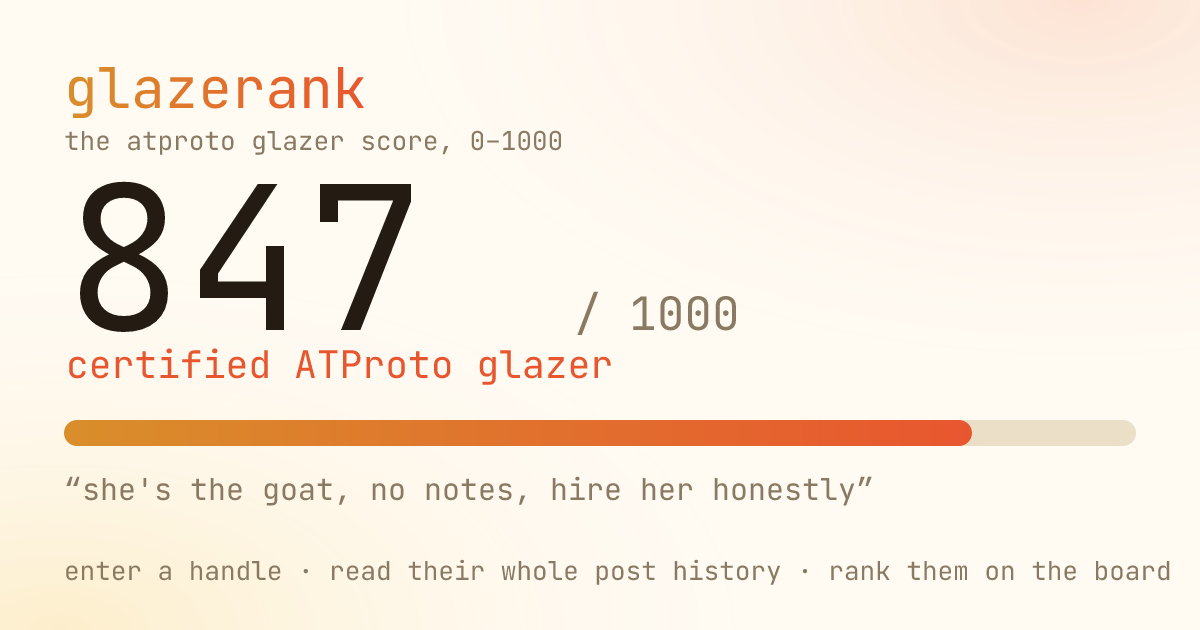
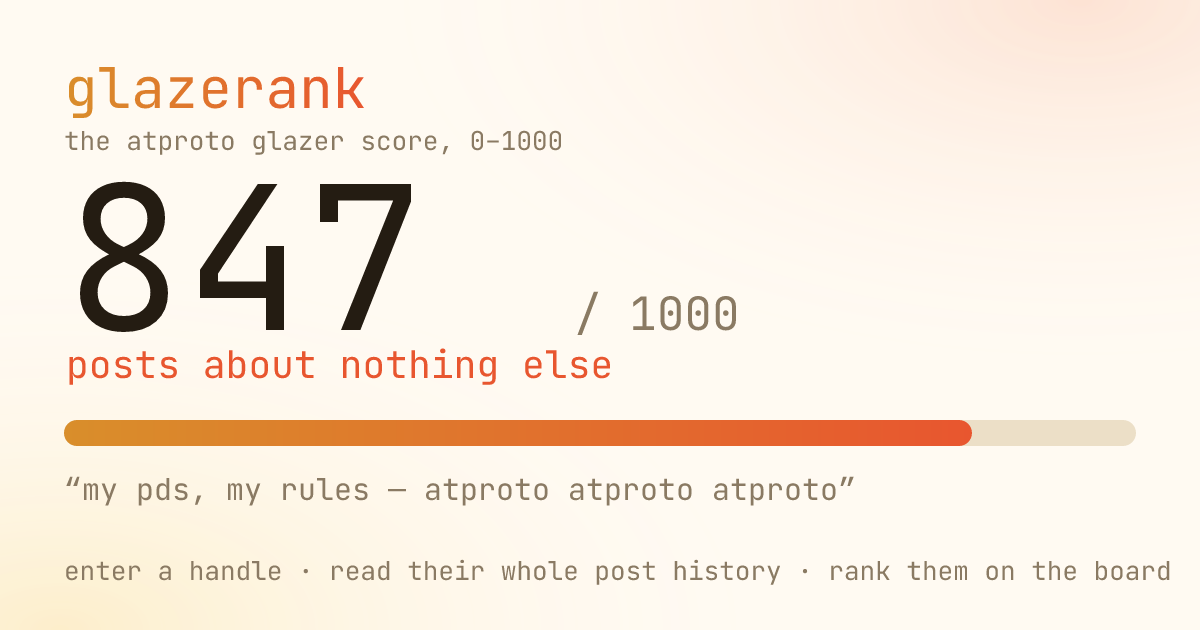
buildthis: glazerank (@mfzx.net)

Changed region(s): [[0.0617, 0.5429, 0.5242, 0.6032], [0.37, 0.754, 0.74, 0.8143], [0.0617, 0.754, 0.3392, 0.8143]]

diff --git a/sites/glazerank/src/index.ts b/sites/glazerank/src/index.ts
@@ -4,7 +4,13 @@
 // bio joking she's "ATProto's 19th biggest glazer") for a site with an
 // account input that computes an "atproto glazer" score 0-1000 off that
 // account's own posts, going back as far as the site can fetch, plus a
-// leaderboard.
+// leaderboard. Originally scored hype-superlative keyword hits (goat,
+// iconic, no notes...) gated on the post being atproto-related; @mfzx.net
+// came back and asked for a better indicator — "how much does this account
+// talk about atproto/bluesky/other atmosphere apps" — so the score is now
+// pure topic-mention density, see TOPIC_TERMS below. Same ask reset the
+// leaderboard (old entries were scored under the old metric and aren't
+// comparable), done by bumping the KV key, see LEADERBOARD_KEY.
 //
 // Scoring runs server-side (POST /api/score), not in the browser. Two
 // reasons: (1) it downloads the account's whole repo as one CAR
@@ -278,96 +284,61 @@ async function walkFeedFallback(did: string): Promise<string[]> {
   return texts;
 }
 
-// ---- glaze scoring -------------------------------------------------------
+// ---- topic scoring --------------------------------------------------------
 //
-// A weighted grep over each post's text, same "no LLM judgment, just grep"
-// spirit as sites/griftindex and sites/unpalatable: transparent, and every
-// visitor can see exactly what phrases moved the number. Weight is roughly
-// "how load-bearing is this phrase as pure hype" — a bare compliment scores
-// low, a full glaze-tier superlative scores high.
-const GLAZE_TERMS: Array<[RegExp, number, string]> = [
-  [/\bthe\s+goat\b/gi, 3, "the goat"],
-  [/\bgoated\b/gi, 3, "goated"],
-  [/\biconic\b/gi, 3, "iconic"],
-  [/\blegend(?:ary)?\b/gi, 3, "legend(ary)"],
-  [/\bunmatched\b/gi, 3, "unmatched"],
-  [/\bnational treasure\b/gi, 3, "national treasure"],
-  [/\bhire (?:her|him|them)\b/gi, 3, "hire her/him/them"],
-  [/\bunderstood the assignment\b/gi, 3, "understood the assignment"],
-  [/\bno notes\b/gi, 3, "no notes"],
-  [/\b(?:she|he|they) ate\b(?!\s+(?:breakfast|lunch|dinner|food|pizza))/gi, 3, "[x] ate"],
-  [/\bleft no crumbs\b/gi, 3, "left no crumbs"],
-  [/\bwe don'?t deserve\b/gi, 3, "we don't deserve [x]"],
-  [/\bblessed to witness\b/gi, 3, "blessed to witness"],
-  [/\bchef'?s kiss\b/gi, 3, "chef's kiss"],
-  [/\bgive (?:her|him|them)(?: your)? money\b/gi, 3, "give them money"],
-  [/\bs[\s-]?tier\b/gi, 2, "S tier"],
-  [/\btop tier\b/gi, 2, "top tier"],
-  [/\bamazing\b/gi, 2, "amazing"],
-  [/\bincredible\b/gi, 2, "incredible"],
-  [/\bphenomenal\b/gi, 2, "phenomenal"],
-  [/\bbrilliant\b/gi, 2, "brilliant"],
-  [/\bgenius\b/gi, 2, "genius"],
-  [/\bso talented\b/gi, 2, "so talented"],
-  [/\binsanely talented\b/gi, 2, "insanely talented"],
-  [/\bso good\b/gi, 2, "so good"],
-  [/\btoo good\b/gi, 2, "too good"],
-  [/\bobsessed with\b/gi, 2, "obsessed with"],
-  [/\bin awe of\b/gi, 2, "in awe of"],
-  [/\bgo follow\b/gi, 2, "go follow"],
-  [/\byou should follow\b/gi, 2, "you should follow"],
-  [/\beveryone should follow\b/gi, 2, "everyone should follow"],
-  [/\bcriminally underrated\b/gi, 2, "criminally underrated"],
-  [/\bqueen\b/gi, 2, "queen"],
-  [/\bsuch an icon\b/gi, 2, "such an icon"],
-  [/\bslay(?:ed|ing)?\b/gi, 2, "slay"],
-  [/\bimmaculate\b/gi, 2, "immaculate"],
-  [/\bflawless\b/gi, 2, "flawless"],
-  [/\bmasterpiece\b/gi, 2, "masterpiece"],
-  [/\bso proud of\b/gi, 2, "so proud of"],
-  [/\b10\/10\b/g, 2, "10/10"],
-  [/\bunderrated\b/gi, 1, "underrated"],
-  [/\blove (?:this|that)\b/gi, 1, "love this/that"],
-  [/\bgreat job\b/gi, 1, "great job"],
-  [/\bwell deserved\b/gi, 1, "well deserved"],
-  [/\byesss+\b/gi, 1, "yesss"],
-  [/\bs+o{3,}\b/gi, 1, "soooo"],
-  [/\bso happy for\b/gi, 1, "so happy for"],
-  [/\bso cool\b/gi, 1, "so cool"],
-  [/🔥/g, 1, "🔥"],
-  [/👑/g, 1, "👑"],
-  [/💯/g, 1, "💯"],
-  [/✨/g, 1, "✨"],
-  [/🙏/g, 1, "🙏"],
-  [/😭😭/g, 1, "😭😭"],
-  [/!{3,}/g, 1, "!!! (emphasis)"],
+// @mfzx.net, replying to their own original ask: "a better indicator than
+// 'keyword-searching for the few positive-valence terms you've picked out'
+// would just be 'how much does this account talk about atproto/bluesky/other
+// atmosphere apps'" — this replaces the old hype-superlative grep (goat,
+// iconic, no notes...) entirely. It no longer matters *how* someone talks
+// about the ecosystem, just how much of their posting is about it at all.
+// Same "no LLM judgment, just grep" spirit as before (and as
+// sites/griftindex and sites/unpalatable): transparent, and every visitor
+// can see exactly which terms moved the number — just counting topic
+// mentions now instead of praise words.
+const TOPIC_TERMS: Array<[RegExp, string]> = [
+  [/\bat\s?protocol\b/gi, "at protocol"],
+  [/\bat-proto\b/gi, "at-proto"],
+  [/\batproto\b/gi, "atproto"],
+  [/\batprotozoa\b/gi, "atprotozoa"],
+  [/\bbluesky\b/gi, "bluesky"],
+  [/\bbsky\b/gi, "bsky"],
+  [/\.bsky\.social\b/gi, ".bsky.social"],
+  [/\bpds\b/gi, "pds"],
+  [/\bappview\b/gi, "appview"],
+  [/\blexicons?\b/gi, "lexicon(s)"],
+  [/\bjetstream\b/gi, "jetstream"],
+  [/\bfirehose\b/gi, "firehose"],
+  [/\bxrpc\b/gi, "xrpc"],
+  [/\bdid:plc\b/gi, "did:plc"],
+  [/\bdid:web\b/gi, "did:web"],
+  [/\bdecentralized social\b/gi, "decentralized social"],
+  [/\bskeeted?\b/gi, "skeet(ed)"],
+  [/\bwhitewind\b/gi, "whitewind"],
+  [/\bsmoke ?signal\b/gi, "smokesignal"],
+  [/\bfrontpage\.fyi\b/gi, "frontpage.fyi"],
+  [/\bleaflet\.pub\b/gi, "leaflet.pub"],
+  [/\bstatusphere\b/gi, "statusphere"],
+  [/\btangled\.sh\b/gi, "tangled.sh"],
+  [/\bozone\b/gi, "ozone"],
+  [/\blabelers?\b/gi, "labeler(s)"],
+  [/\bcustom feeds?\b/gi, "custom feed(s)"],
+  [/\bcom\.atproto\b/gi, "com.atproto"],
+  [/\bapp\.bsky\b/gi, "app.bsky"],
+  [/\bchat\.bsky\b/gi, "chat.bsky"],
 ];
 
-// @mfzx.net, replying to their own original ask: "not for glazing in
-// general, just for atproto" — the score was crediting any hype post
-// (goat, iconic, hire her...) regardless of subject. This gates each post's
-// glaze hits on the post itself also being about the atproto ecosystem, so
-// "she's the goat" about a musician no longer counts but "atproto's goat"
-// or a compliment aimed at a bluesky/atproto project does. Same grep-only
-// spirit as GLAZE_TERMS: no LLM judgment, just a second keyword pass.
-const ATPROTO_TERMS =
-  /\b(atproto|at protocol|at-proto|bluesky|bsky|\.bsky\.social|pds|appview|lexicons?|jetstream|firehose|xrpc|did:plc|did:web|decentralized social|skeet|skeeted|whitewind|smoke ?signal|frontpage\.fyi|leaflet\.pub|statusphere|tangled\.sh|ozone|labeler|custom feed|com\.atproto|app\.bsky|chat\.bsky|atprotozoa)\b/i;
-
-function isAtprotoContext(text: string): boolean {
-  return ATPROTO_TERMS.test(text);
-}
-
-function scoreText(text: string): { weighted: number; hits: Array<{ label: string; count: number }> } {
-  let weighted = 0;
+function scoreTopicMentions(text: string): { total: number; hits: Array<{ label: string; count: number }> } {
+  let total = 0;
   const hits: Array<{ label: string; count: number }> = [];
-  for (const [re, weight, label] of GLAZE_TERMS) {
+  for (const [re, label] of TOPIC_TERMS) {
     const m = text.match(re);
     if (m && m.length) {
-      weighted += m.length * weight;
+      total += m.length;
       hits.push({ label, count: m.length });
     }
   }
-  return { weighted, hits };
+  return { total, hits };
 }
 
 function truncate(s: string, max: number): string {
@@ -380,50 +351,47 @@ interface GlazeResult {
   score: number;
   postCount: number;
   atprotoPostCount: number;
-  totalWeighted: number;
+  totalMentions: number;
   topTerms: Array<{ label: string; count: number }>;
   topQuotes: string[];
 }
 
-// density = average weighted hit-score per post. Mapped through a saturating
-// curve (1 - e^-x) rather than a linear scale so an account that glazes
-// once in a while doesn't cap out at 1000 alongside someone who does it in
-// nearly every post — the curve has to be worked for the whole top half of
-// the range.
-const DENSITY_SCALE = 0.9;
+// density = average atmosphere-topic mentions per post, spread over the
+// *whole* post history (not just the on-topic subset) — someone who only
+// ever posts about atproto scores higher than someone who mentions it once
+// a month, even at the same per-mention rate. Mapped through a saturating
+// curve (1 - e^-x) rather than linear so an account that brings it up
+// occasionally doesn't cap out at 1000 alongside someone who talks about
+// nothing else — the curve has to be worked for the whole top half of the
+// range.
+const DENSITY_SCALE = 1.4;
 
 function computeGlazeScore(texts: string[]): GlazeResult {
-  let totalWeighted = 0;
+  let totalMentions = 0;
   let atprotoPostCount = 0;
   const termCounts = new Map<string, number>();
-  const scored: Array<{ text: string; weighted: number }> = [];
+  const scored: Array<{ text: string; mentions: number }> = [];
   for (const text of texts) {
     if (!text || !text.trim()) continue;
-    if (!isAtprotoContext(text)) continue; // glazing about something else doesn't count
+    const { total, hits } = scoreTopicMentions(text);
+    if (total === 0) continue;
     atprotoPostCount++;
-    const { weighted, hits } = scoreText(text);
-    totalWeighted += weighted;
-    if (weighted > 0) {
-      scored.push({ text, weighted });
-      for (const h of hits) termCounts.set(h.label, (termCounts.get(h.label) || 0) + h.count);
-    }
+    totalMentions += total;
+    scored.push({ text, mentions: total });
+    for (const h of hits) termCounts.set(h.label, (termCounts.get(h.label) || 0) + h.count);
   }
   const postCount = texts.length;
-  // density is still spread over the *whole* post history, not just the
-  // atproto-tagged subset — someone who only ever posts about atproto and
-  // glazes constantly should still outscore someone who mentions atproto
-  // once a month with the same enthusiasm.
-  const density = totalWeighted / Math.max(1, postCount);
+  const density = totalMentions / Math.max(1, postCount);
   const score = Math.max(0, Math.min(1000, Math.round(1000 * (1 - Math.exp(-density / DENSITY_SCALE)))));
 
-  scored.sort((a, b) => b.weighted - a.weighted || a.text.length - b.text.length);
+  scored.sort((a, b) => b.mentions - a.mentions || a.text.length - b.text.length);
   const topQuotes = scored.slice(0, 3).map((s) => truncate(s.text, 220));
   const topTerms = Array.from(termCounts.entries())
     .sort((a, b) => b[1] - a[1])
     .slice(0, 8)
     .map(([label, count]) => ({ label, count }));
 
-  return { score, postCount, atprotoPostCount, totalWeighted, topTerms, topQuotes };
+  return { score, postCount, atprotoPostCount, totalMentions, topTerms, topQuotes };
 }
 
 // ---- leaderboard (one KV blob, same pattern as sites/chickenjack) --------
@@ -446,13 +414,21 @@ interface LeaderboardEntry {
 // tiny — this is a storage-size backstop, not a "some limit felt safer" cap.
 const LEADERBOARD_CAP = 2000;
 
+// @mfzx.net asked to reset the leaderboard when the scoring metric changed
+// (old entries were scored under the retired hype-keyword algorithm and
+// aren't comparable to topic-mention scores). This build agent has no
+// credentials to touch the live KV store directly, so the reset is a code
+// change instead: bumping the key means the old "leaderboard" blob is simply
+// never read again, and everyone starts fresh under "leaderboard-v2".
+const LEADERBOARD_KEY = "leaderboard-v2";
+
 async function loadLeaderboard(env: Env): Promise<LeaderboardEntry[]> {
-  const data = await env.LEADERBOARD.get("leaderboard", "json");
+  const data = await env.LEADERBOARD.get(LEADERBOARD_KEY, "json");
   return Array.isArray(data) ? data : [];
 }
 
 async function saveLeaderboard(env: Env, entries: LeaderboardEntry[]): Promise<void> {
-  await env.LEADERBOARD.put("leaderboard", JSON.stringify(entries));
+  await env.LEADERBOARD.put(LEADERBOARD_KEY, JSON.stringify(entries));
 }
 
 async function upsertLeaderboard(env: Env, entry: LeaderboardEntry): Promise<{ entries: LeaderboardEntry[]; rank: number }> {
@@ -518,16 +494,16 @@ function esc(s: string): string {
 
 const GENERIC_TITLE = "glazerank — the atproto glazer score";
 const GENERIC_DESC =
-  "Enter a Bluesky handle and glazerank reads their whole post history for goat, iconic, no notes, hire her, and everything in between — but only the ones actually about atproto/bluesky — 0 to 1000, ranked on a live leaderboard.";
+  "Enter a Bluesky handle and glazerank reads their whole post history and scores how much of it is actually about atproto, bluesky, and the rest of the atmosphere — 0 to 1000, ranked on a live leaderboard.";
 const GENERIC_OG_URL_ATTR = 'content="https://glazerank.bisks.net/"';
 
 function glazeTitle(score: number): string {
-  if (score >= 900) return "certified ATProto glazer";
-  if (score >= 750) return "professional hype account";
-  if (score >= 550) return "generous with the compliments";
-  if (score >= 350) return "keeps it warm but honest";
-  if (score >= 150) return "measured, occasionally kind";
-  return "certified hater";
+  if (score >= 900) return "posts about nothing else";
+  if (score >= 750) return "certified ATProto poster";
+  if (score >= 550) return "brings it up constantly";
+  if (score >= 350) return "mentions it regularly";
+  if (score >= 150) return "brings it up occasionally";
+  return "barely talks about it";
 }
 
 async function renderShare(env: Env, request: Request, rawHandle: string): Promise<Response> {

diff --git a/sites/glazerank/public/index.html b/sites/glazerank/public/index.html
@@ -4,18 +4,18 @@
 <meta charset="utf-8" />
 <meta name="viewport" content="width=device-width, initial-scale=1" />
 <title>glazerank — the atproto glazer score</title>
-<meta name="description" content="Enter a Bluesky handle and glazerank reads their whole post history for goat, iconic, no notes, hire her, and everything in between — but only the ones actually about atproto/bluesky — 0 to 1000, ranked on a live leaderboard." />
+<meta name="description" content="Enter a Bluesky handle and glazerank reads their whole post history and scores how much of it is actually about atproto, bluesky, and the rest of the atmosphere — 0 to 1000, ranked on a live leaderboard." />
 <meta property="og:title" content="glazerank — the atproto glazer score" />
-<meta property="og:description" content="Enter a Bluesky handle and glazerank reads their whole post history for goat, iconic, no notes, hire her, and everything in between — but only the ones actually about atproto/bluesky — 0 to 1000, ranked on a live leaderboard." />
+<meta property="og:description" content="Enter a Bluesky handle and glazerank reads their whole post history and scores how much of it is actually about atproto, bluesky, and the rest of the atmosphere — 0 to 1000, ranked on a live leaderboard." />
 <meta property="og:url" content="https://glazerank.bisks.net/" />
 <meta property="og:type" content="website" />
 <meta property="og:image" content="https://glazerank.bisks.net/og.png" />
 <meta property="og:image:width" content="1200" />
 <meta property="og:image:height" content="630" />
-<meta property="og:image:alt" content="glazerank: a score meter running from 0 to 1000, measuring how much an account glazes." />
+<meta property="og:image:alt" content="glazerank: a score meter running from 0 to 1000, measuring how much an account talks about atproto/bluesky." />
 <meta name="twitter:card" content="summary_large_image" />
 <meta name="twitter:title" content="glazerank — the atproto glazer score" />
-<meta name="twitter:description" content="Enter a Bluesky handle and glazerank reads their whole post history for goat, iconic, no notes, hire her, and everything in between — but only the ones actually about atproto/bluesky — 0 to 1000, ranked on a live leaderboard." />
+<meta name="twitter:description" content="Enter a Bluesky handle and glazerank reads their whole post history and scores how much of it is actually about atproto, bluesky, and the rest of the atmosphere — 0 to 1000, ranked on a live leaderboard." />
 <meta name="twitter:image" content="https://glazerank.bisks.net/og.png" />
 <style>
   :root {
@@ -118,9 +118,10 @@
   <h1>gl<span onclick='var e=document.getElementById("handle");if(e){e.value="@cee.wtf";e.dispatchEvent(new Event("input",{bubbles:true}));e.dispatchEvent(new Event("change",{bubbles:true}));e.focus();}' style="cursor:pointer">a</span>zerank</h1>
   <p class="tag">
     Type a Bluesky handle. glazerank pulls their <em>entire</em> post history straight off their PDS
-    and scores it 0–1000 on pure glaze energy — <code>goat</code>, <code>iconic</code>, <code>no notes</code>,
-    <code>hire her</code>, and forty-some other tells — but only counts it when the post is actually
-    about atproto or bluesky. Glaze someone else all you want, it won't move the number.
+    and scores it 0–1000 on one thing: how much of it is actually about
+    <code>atproto</code>, <code>bluesky</code>, and the rest of the atmosphere —
+    <code>pds</code>, <code>jetstream</code>, <code>lexicons</code>, <code>whitewind</code>, and everything else
+    that gives it away. Posting about literally anything else doesn't move the number.
     Ranked live against everyone else who's been scored.
   </p>
 
@@ -202,12 +203,12 @@ function setStatus(msg, isErr) {
 }
 
 function glazeTitle(score) {
-  if (score >= 900) return "certified ATProto glazer";
-  if (score >= 750) return "professional hype account";
-  if (score >= 550) return "generous with the compliments";
-  if (score >= 350) return "keeps it warm but honest";
-  if (score >= 150) return "measured, occasionally kind";
-  return "certified hater";
+  if (score >= 900) return "posts about nothing else";
+  if (score >= 750) return "certified ATProto poster";
+  if (score >= 550) return "brings it up constantly";
+  if (score >= 350) return "mentions it regularly";
+  if (score >= 150) return "brings it up occasionally";
+  return "barely talks about it";
 }
 
 let lastResult = null;
@@ -254,7 +255,7 @@ function renderResult(data) {
   if (!data.topTerms.length) {
     const c = document.createElement("span");
     c.className = "chip";
-    c.textContent = "no glaze terms found — refreshingly normal";
+    c.textContent = "no atproto/bluesky talk found";
     els.rChips.appendChild(c);
   }
   for (const t of data.topTerms) {

diff --git a/apex/public/index.html b/apex/public/index.html
@@ -1929,7 +1929,7 @@
         <a class="card" href="https://glazerank.bisks.net/" data-site="glazerank" data-by="mfzx.net" data-type="tool" data-src="bot">
           <h2>glazerank <span class="tag">leaderboard</span></h2>
           <p>
-            enter a Bluesky handle and it downloads their whole post history off their own PDS, greps it for goat/iconic/no notes/hire her and forty-some other glaze tells (only the ones actually about atproto/bluesky, per @mfzx.net's follow-up), and scores them 0-1000 on a live leaderboard. @mfzx.net asked, off @demigirlboss.bsky.social's bio joking she's "ATProto's 19th biggest glazer."
+            enter a Bluesky handle and it downloads their whole post history off their own PDS and scores them 0-1000 on how much of it is actually about atproto/bluesky/the rest of the atmosphere, ranked on a live leaderboard. @mfzx.net asked, off @demigirlboss.bsky.social's bio joking she's "ATProto's 19th biggest glazer," then reworked the metric from hype-keyword-spotting to pure topic talk.
           </p>
         </a>
         <a class="card" href="https://gonefishin.bisks.net/" data-site="gonefishin" data-by="spinny.bsky.social" data-type="game" data-src="bot">
